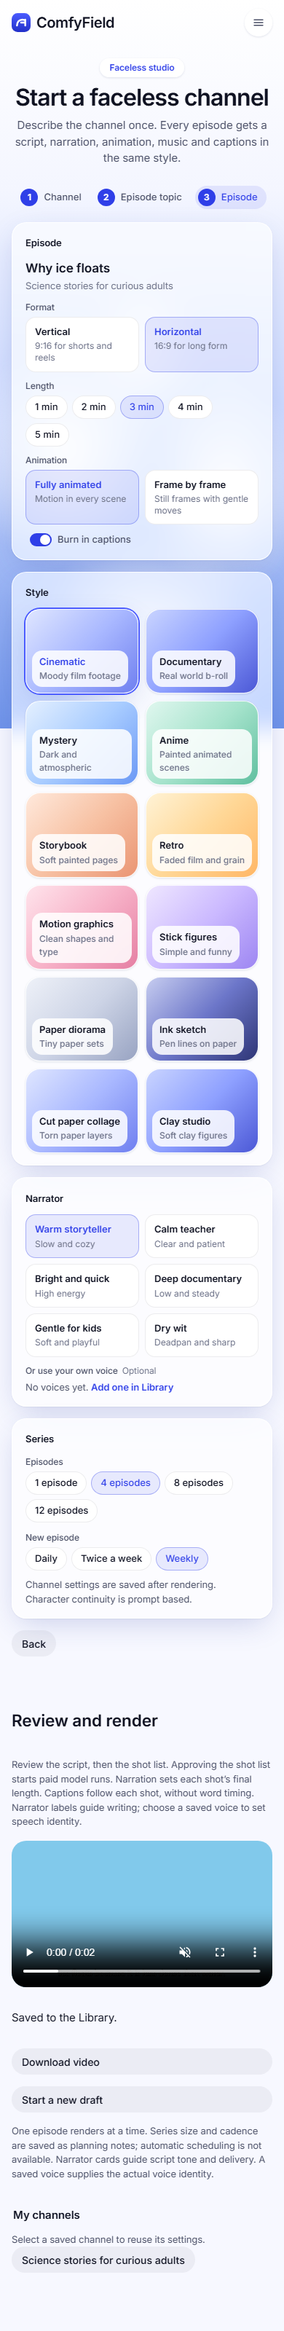
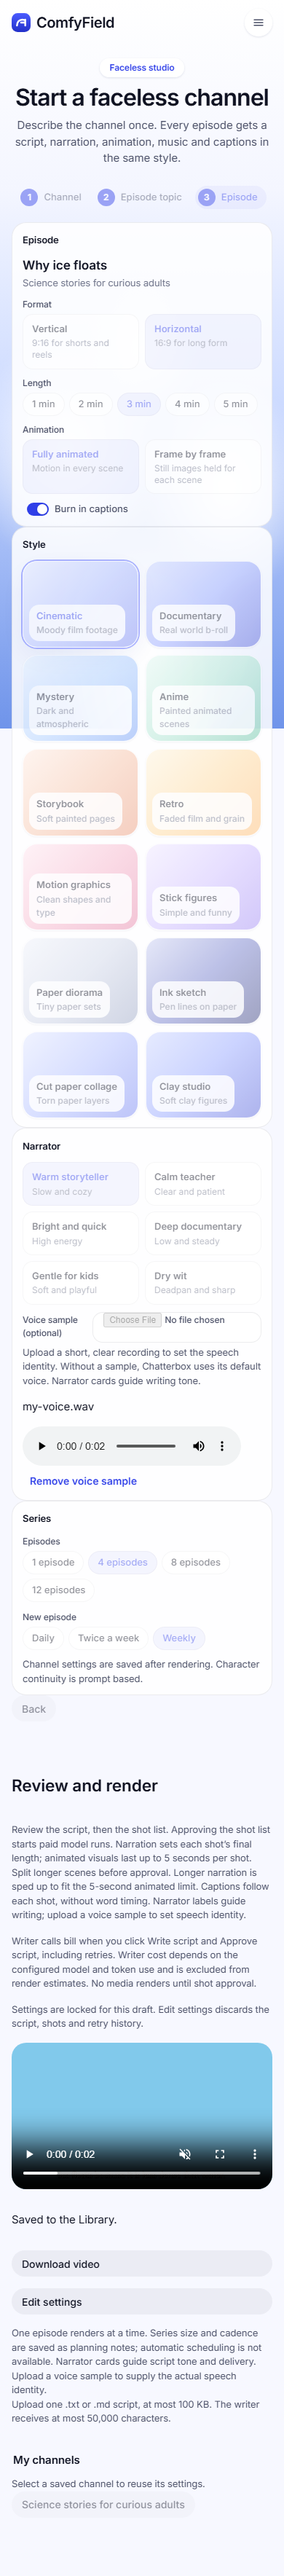
Refresh story studio review evidence and screenshots

Changed region(s): [[0.0, 0.0, 1.0, 0.9688]]

diff --git a/research_notes/story-studios-review.md b/research_notes/story-studios-review.md
@@ -1,0 +1,42 @@
+# Story studio review fixes
+
+Implementation: `4aa5b83` on `story-studios`. The requested `git fetch origin` and rebase completed; `origin/main` was already included (`7ee3b1c`). All local edits stayed in `/Users/kylekumar/.t3/worktrees/comfyfield/t3-2d16bd1c`.
+
+| Finding | Resolution |
+| --- | --- |
+| 1. Animation retry repurchases an image | Image and motion now run as separate formats through the shared runner and Library adapter. Each successful step enters the draft cache immediately. A failed animation retries motion alone. The regression deliberately fails `ltx25_i2v` and asserts the sequence image, failed motion, retried motion, speech. Stitch-failure reuse remains covered. |
+| 2. Session requirements discovered after spending | A read-only plan reads every possible workflow before the first writer call, and every approved workflow before rendering. It aggregates `minVramOf`, `notOnCloud` and architecture requirements. An undersized or unavailable Session is refused before billing; no Session starts automatically from planning. A 24 GB Session cannot start the 32 GB animated pipeline. |
+| 3. Editable controls with frozen values | Native fieldsets lock page settings from drafting through completion. Edit settings discards the draft and retry cache and unlocks the controls. Browser checks exercise locking, discard and drafting again. |
+| 4. Missing estimates and writer disclosure | Shot approval shows a total and a per-shot render estimate, recomputed after shot edits. Prices use the shared `estimate()` function, graph reference runtimes and the Cloud rate or current Session rate and speed. Writer billing on Write script and Approve script is disclosed before either click. Estimates explicitly exclude writers, startup, downloads, storage and idle time. |
+| 5. Long scenes freeze after five seconds | Fully animated generated shots must fit five seconds and ten narration words before approval. The shot writer receives the same limits. Stitch speeds up narration that exceeds the five-second cap, preserving its words. A 20-second shot is rejected in both runner and browser checks. |
+| 6. Unavailable saved voices | Faceless and Explainer use inline sample upload instead of the empty Library voice picker. The uploaded app-media sample reaches the speech workflow's voice input. Browser checks upload an actual synthetic audio file and verify its returned URL in the speech request; no fabricated saved-voice entries are used. Without a sample the copy identifies the default speech voice. |
+| 7. Unbounded text imports | Validate the complete selection before reading: text or Markdown only, at most five attachments, 100 KB each and 200 KB total. Faceless accepts one script. Reads are sequential and the combined writer context is capped at 50,000 attachment characters. Truncation is recorded and visibly disclosed. Invalid count, type, individual size and total size are checked without reading any file. |
+| 8. Restyle duration exceeds the frame cap | The server inspects source fps before drafting, then checks both the fps-derived range and a bounded decoded frame count before approval/rendering. Bernini receives at most 81 frames, including variable-rate footage. Checks cover the 1.35-second limit at 60 fps and an actual-count overflow. |
+
+The still-frame option now says the images are held for each scene; it no longer promises movement.
+
+Stitch download handling is isolated in `server/stitchMedia.js`: a 200 MB limit, a 30-second deadline covering headers and body, streaming to disk, and cleanup of partial downloads. Local inputs must be app `/media/` paths; traversal, arbitrary local paths and links outside the media directory are refused. Render directories are removed after success, failure and timeout. The timeout waits for ffmpeg to exit before cleanup. The main Stitch diff remains small for integration with `ads-studios`.
+
+Global format totals in checks now derive from the catalog and validation results. `scripts/verify.mjs`, RunPod files and `comfyTarget` were not edited. The widget browser fixture can choose another free port when Vite's default is occupied.
+
+## Validation
+
+Passed on implementation commit `4aa5b834c1d3e1d4d401631c8adc33fcad95a3bf`. All builds, checks, browser fixtures and ffmpeg work run sequentially in the scratch clone `C:/comfyfield-story-fixes-2d16` on `pi-windows`; no heavy checks run on the Mac. Provider credentials are removed from the validation process environment before the final run. Providers are mocked; paid spend is zero.
+
+Check output:
+
+```text
+npx vite build
+336 modules transformed; built in 3.12s
+node scripts/verify.mjs
+19/19 check scripts passed
+Story regressions passed: animation retry, pipeline preflight, estimates, scene caps, source frames and bounded imports
+Stitch media checks passed: app paths only, streamed downloads, size caps, body timeout and partial cleanup
+Story page checks passed: all three pages, both approvals, mock providers, real ffmpeg, playback, Library, dependency error and 390px layouts
+```
+
+The build retains the existing advisory about a bundle larger than 500 kB. The Windows source directories were clean at the tested commit; the follow-up evidence commit changes only this report and screenshots.
+
+The Windows validation process uses Git Bash rather than the WSL Bash shim, which cannot open the Windows fixture paths. An earlier full run exposed the shim selection; another encountered an occupied default browser-fixture port. Neither failure required changes to RunPod code or the verifier.
+
+Refreshed screenshots are labeled `mock-` in `research_notes/screenshots/story-studios/`: desktop review, finished desktop and finished 390px captures for each studio. They show real page rendering, runner approvals, ffmpeg playback and Library persistence with synthetic provider media, and do not prove live model output.

diff --git a/research_notes/screenshots/story-studios/README.md b/research_notes/screenshots/story-studios/README.md
@@ -2,22 +2,22 @@
 
 Captured on Windows using headless Chrome and the production build, at 1440px and 390px. Writer and Comfy calls use fixtures. Video assembly, captions, music mixing, playback and Library persistence use real local code and ffmpeg. Flat colors and the synthetic tone are test media, not provider quality evidence.
 
-Each studio has an editable shot-list approval capture (`mock-<studio>-review-desktop.png`) and finished output captures (`mock-<studio>-desktop.png`, `mock-<studio>-390.png`). The selected controls are exercised in the requests: Explainer uses clay motion and square output with an attached text file and music; Shorts uses clay world, Spanish speech and clean captions; Faceless uses full animation and saves its channel settings.
+Each studio has an editable shot-list approval capture (`mock-<studio>-review-desktop.png`) and finished output captures (`mock-<studio>-desktop.png`, `mock-<studio>-390.png`). The selected controls are exercised in the requests: Explainer uses clay motion and square output with an attached text file and music; Shorts uses clay world, Spanish speech and clean captions; Faceless uses full animation, uploads a voice sample and saves its channel settings. Review captures show locked settings, writer billing disclosure and total/per-shot render estimates.
 
-Validation ran in `C:\comfyfield-story-studios\source` on `pi-windows`, with system and bundled ffmpeg exercised by the Stitch checks. The full verifier uses Git Bash on the test process path and its explicit shell override for the existing Pod fixtures. No Pod implementation files changed.
+Validation ran in `C:\comfyfield-story-fixes-2d16` on `pi-windows`, with system and bundled ffmpeg exercised by the Stitch checks. The full verifier uses Git Bash on the test process path for the existing Pod fixtures. No Pod implementation files changed.
 
 Check output:
 
 ```text
 npx vite build
-  335 modules transformed
+  336 modules transformed
   build passed (existing large-chunk warning)
 node scripts/verify.mjs
-  18/18 check scripts passed
+  19/19 check scripts passed
 node scripts/theme-check.mjs
   theme ok
 node scripts/story-ui-check.mjs
   Story page checks passed: all three pages, both approvals, mock providers, real ffmpeg, playback, Library, dependency error and 390px layouts
 ```
 
-The page check and build were repeated after bounding the video preview height. No paid generations, external account operations or real API keys were used.
+Refreshed for implementation commit `4aa5b83`; see [the findings report](../../story-studios-review.md) for regression coverage and validation details. No paid generations, external account operations or real API keys were used.
